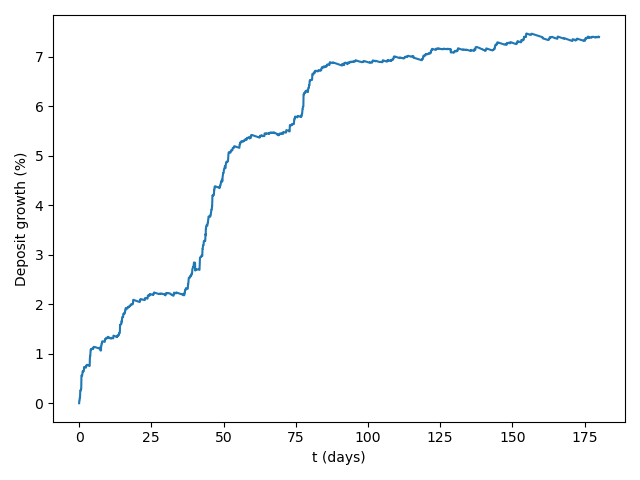
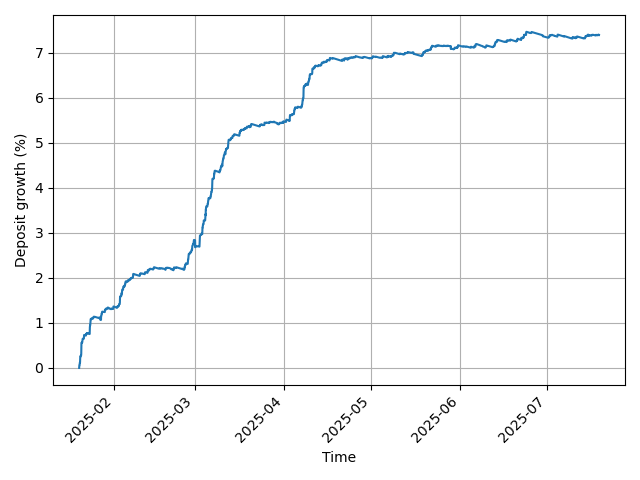
Better plotting

diff --git a/btcusd/stableswap-binance-sliced-6m/1737327600000/4. releverage A9 mf 1 (THIS)/simulate-one.py b/btcusd/stableswap-binance-sliced-6m/1737327600000/4. releverage A9 mf 1 (THIS)/simulate-one.py
@@ -195,13 +195,14 @@ if __name__ == '__main__':
 
     import pylab
     losses = np.array(simulator.losses[::100])
-    t = losses[:, 0]
-    t = (t - t[0]) / 86400
+    t = [datetime.fromtimestamp(_t) for _t in losses[:, 0]]
     loss = losses[:, 1] * 100 - 100
     pylab.plot(t, loss)
-    pylab.xlabel('t (days)')
+    pylab.xlabel('Time')
     pylab.ylabel('Deposit growth (%)')
+    pylab.xticks(rotation=45, ha='right')
     pylab.tight_layout()
+    pylab.grid()
     pylab.show()
 
     # Optimal fee = 3e-2
